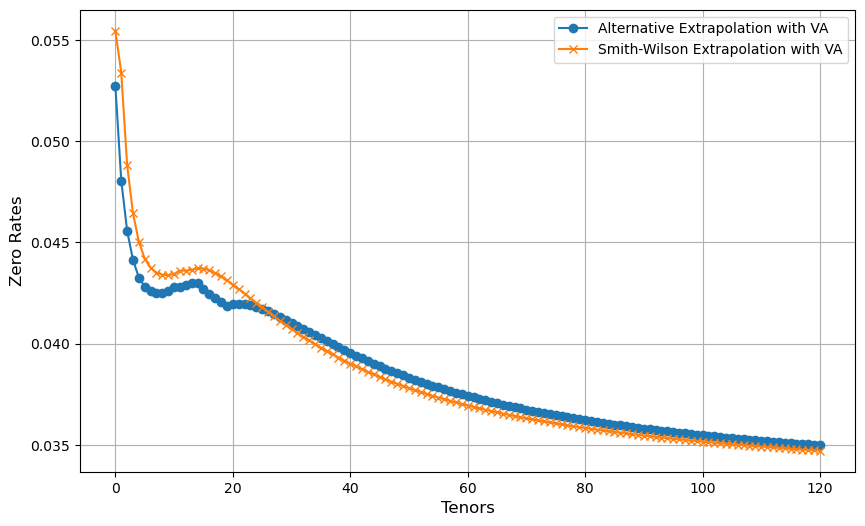
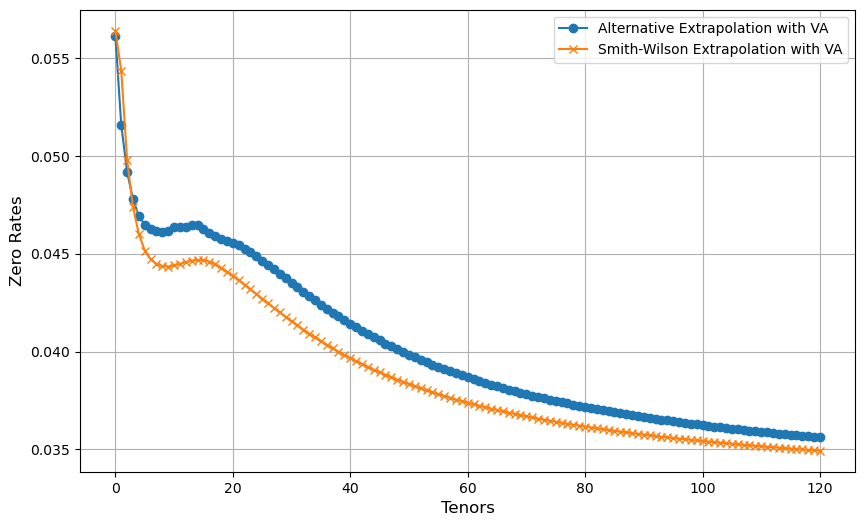
SII Review Tool: Density plots for own fund impacts.

diff --git a/main.py b/main.py
@@ -7,6 +7,8 @@ from extrapolation.smithwilson import ExtrapolationSW
 from va import VASpreadCalculator
 from impact import OnwFundsImpactAssessor
 from plots.curveplotter import CurvePlotter
+from plots.impactplotter import ImpactDensityPlotter
+import pandas as pd
 
 
 def main():
@@ -29,15 +31,15 @@ def main():
     impact_calc = OnwFundsImpactAssessor()
 
     # Define scenarios
-    # scenarios = [
-    #     {'name': 'low_interest_low_spreads', 'shift': 0},
-    #     {'name': 'low_interest_high_spreads', 'shift': 200},
-    #     {'name': 'high_interest_low_spreads', 'shift': 200},
-    #     {'name': 'high_interest_high_spreads', 'shift': 200},
-    # ]
     scenarios = [
-        {'name': 'low_interest_low_spreads', 'shift': 0}
+        {'name': 'low_interest_low_spreads', 'shift': 0},
+        {'name': 'low_interest_high_spreads', 'shift': 200},
+        {'name': 'high_interest_low_spreads', 'shift': 200},
+        {'name': 'high_interest_high_spreads', 'shift': 200},
     ]
+    # scenarios = [
+    #     {'name': 'low_interest_low_spreads', 'shift': 0}
+    # ]
 
     # Iterate over scenarios
     for scenario in scenarios:
@@ -74,13 +76,13 @@ def main():
 
         # Bootstrap input curves
         df_boot = bootstr.bootstrap_to_zero_full(instrument=cp.instrument,
-                                       rates=rate_array * 100.0,
-                                       dlt=dlt_array,
-                                       coupon_freq=cp.coupon_freq,
-                                       compounding_in=cp.compounding_in,
-                                       cra=cp.CRA,
-                                       max_tenor=cp.max_tenorofAlt,
-                                       compounding_out=cp.compounding_out)
+                                                 rates=rate_array * 100.0,
+                                                 dlt=dlt_array,
+                                                 coupon_freq=cp.coupon_freq,
+                                                 compounding_in=cp.compounding_in,
+                                                 cra=cp.CRA,
+                                                 max_tenor=cp.max_tenorofAlt,
+                                                 compounding_out=cp.compounding_out)
 
         # Compute LLFR (No VA)
         llfr_noVA = ext_alt.get_llfr(
@@ -133,7 +135,7 @@ def main():
 
         results_SW_withVA = ext_sw.smith_wilson_extrapolation(
             instrument='Zero', curve_data=df_sw_withVA, coupon_freq=cp.coupon_freq,
-            CRA=cp.CRA, UFR=cp.UFR, alpha_min=cp.alpha_min_SW, CR=cp.CR_SW, CP=cp.CP_SW)
+            CRA=0.0, UFR=cp.UFR, alpha_min=cp.alpha_min_SW, CR=cp.CR_SW, CP=cp.CP_SW)
 
         # Generate plots for the scenario
         curves = {
@@ -147,9 +149,30 @@ def main():
              'Smith-Wilson Extrapolation with VA'),
             ('Alternative Extrapolation', 'Smith-Wilson Extrapolation')
         ]
-        plotter = CurvePlotter(curves)
-        plotter.plot_comparison(
+        curve_plotter = CurvePlotter(curves)
+        curve_plotter.plot_comparison(
             pairs, scenario=scenario["name"], output_path='outputs/curves/')
+
+        results_impact = []
+        # if 'low_interest_low_spreads' in scenario.values():
+        for liability_size in np.arange(0, cp.asset_size, cp.asset_size/20.0):
+            for liability_duration in np.arange(cp.asset_duration, 2 * cp.asset_duration, cp.asset_duration/20.0):
+                impact_df = impact_calc.assess_impact(
+                    asset_size=cp.asset_size, asset_duration=cp.asset_duration, liability_size=cp.liability_size, liability_duration=liability_duration, discount_curve_SWWithVA=results_SW_withVA[[
+                        'Tenors', 'Zero_CC']], discount_curve_AltWithVA=results_Alt_withNewVA[['Tenors', 'Zero_CC']], discount_curve_assets=df_boot[['Tenors', 'Zero_CC']]
+                )
+                results_impact.append(
+                    [liability_size, liability_duration, impact_df['Own Funds Impact rel.'][0]])
+
+        results_impact_df = pd.DataFrame(results_impact, columns=[
+                                         'Liability Size', 'Liability Duration', 'Own Funds Impact'])
+
+        print(results_impact_df)
+
+        plotter = ImpactDensityPlotter(results_impact_df)
+        plotter.create_heatmap(
+            scenario=scenario["name"], output_path='outputs/impacts/')
+        results_impact
 
 
 if __name__ == "__main__":

diff --git a/plots/impactplotter.py b/plots/impactplotter.py
@@ -1,0 +1,48 @@
+import numpy as np
+import matplotlib.pyplot as plt
+import seaborn as sns
+import pandas as pd
+from scipy.interpolate import griddata
+
+
+class ImpactDensityPlotter:
+    def __init__(self, results_impact_df):
+        """
+        Initializes the heatmap visualizer with a DataFrame.
+        :param results_impact_df: Pandas DataFrame with columns ['Liability Size', 'Liability Duration', 'Own Funds Impact'].
+        """
+        self.results_impact_df = results_impact_df
+
+    def create_heatmap(self, scenario, output_path=None):
+        """
+        Creates and displays a density-based 2D heatmap from the results_impact_df DataFrame.
+        """
+        x = self.results_impact_df['Liability Size'].values
+        y = self.results_impact_df['Liability Duration'].values
+        z = self.results_impact_df['Own Funds Impact'].values
+
+        # Create a grid for interpolation
+        xi = np.linspace(x.min(), x.max(), 100)
+        yi = np.linspace(y.min(), y.max(), 100)
+        xi, yi = np.meshgrid(xi, yi)
+
+        # Interpolate z-values onto the grid
+        zi = griddata((x, y), z, (xi, yi), method='cubic')
+
+        plt.figure(figsize=(10, 6))
+
+        # Use contourf to create the density heatmap
+        contour = plt.contourf(xi, yi, zi, levels=100, cmap='coolwarm')
+
+        # Add colorbar to indicate z-values
+        plt.colorbar(contour, label='Own Funds Impact')
+        plt.xlabel('Liability Size')
+        plt.ylabel('Liability Duration')
+
+        if output_path:
+            filename = f'{scenario}.png'
+            plt.savefig(f'{output_path}/{filename}', bbox_inches='tight')
+            plt.close()
+        else:
+            plt.show()
+            plt.close()

diff --git a/impact.py b/impact.py
@@ -83,10 +83,10 @@ class OnwFundsImpactAssessor:
         results_dict = {
             'PV_Assets_SWWithVA': pv_assets_SWWithVA,
             'PV_Liabilities_SWWithVA': pv_liabilities_SWWithVA,
-            'Equity_SWWithVA': equity_SWWithVA,
+            'Own_Funds_SWWithVA': equity_SWWithVA,
             'PV_Assets_AltWithNewVA': pv_assets_AltWithVA,
             'PV_Liabilities_AltWithNewVA': pv_liabilities_AltWithVA,
-            'Equity_AltWithNewVA': equity_AltWithVA
+            'Own_Funds_AltWithNewVA': equity_AltWithVA
         }
         return pd.DataFrame(data=results_dict, index=['Value'])
 
@@ -99,8 +99,9 @@ class OnwFundsImpactAssessor:
         """
         pvs = self.calculate_pvs(asset_size, asset_duration, liability_size,
                                  liability_duration, discount_curve_SWWithVA, discount_curve_AltWithVA, discount_curve_assets)
-        impact = pvs['Equity_AltWithNewVA'].values[0] - pvs['Equity_SWWithVA'].values[0]
+        impact = pvs['Own_Funds_AltWithNewVA'].values[0] - pvs['Own_Funds_SWWithVA'].values[0]
         results = pvs.copy()
-        results['Impact'] = impact
-
+        results['Own Funds'] = asset_size - liability_size
+        results['Own Funds Impact'] = impact
+        results['Own Funds Impact rel.'] = impact / (asset_size - liability_size)
         return results
